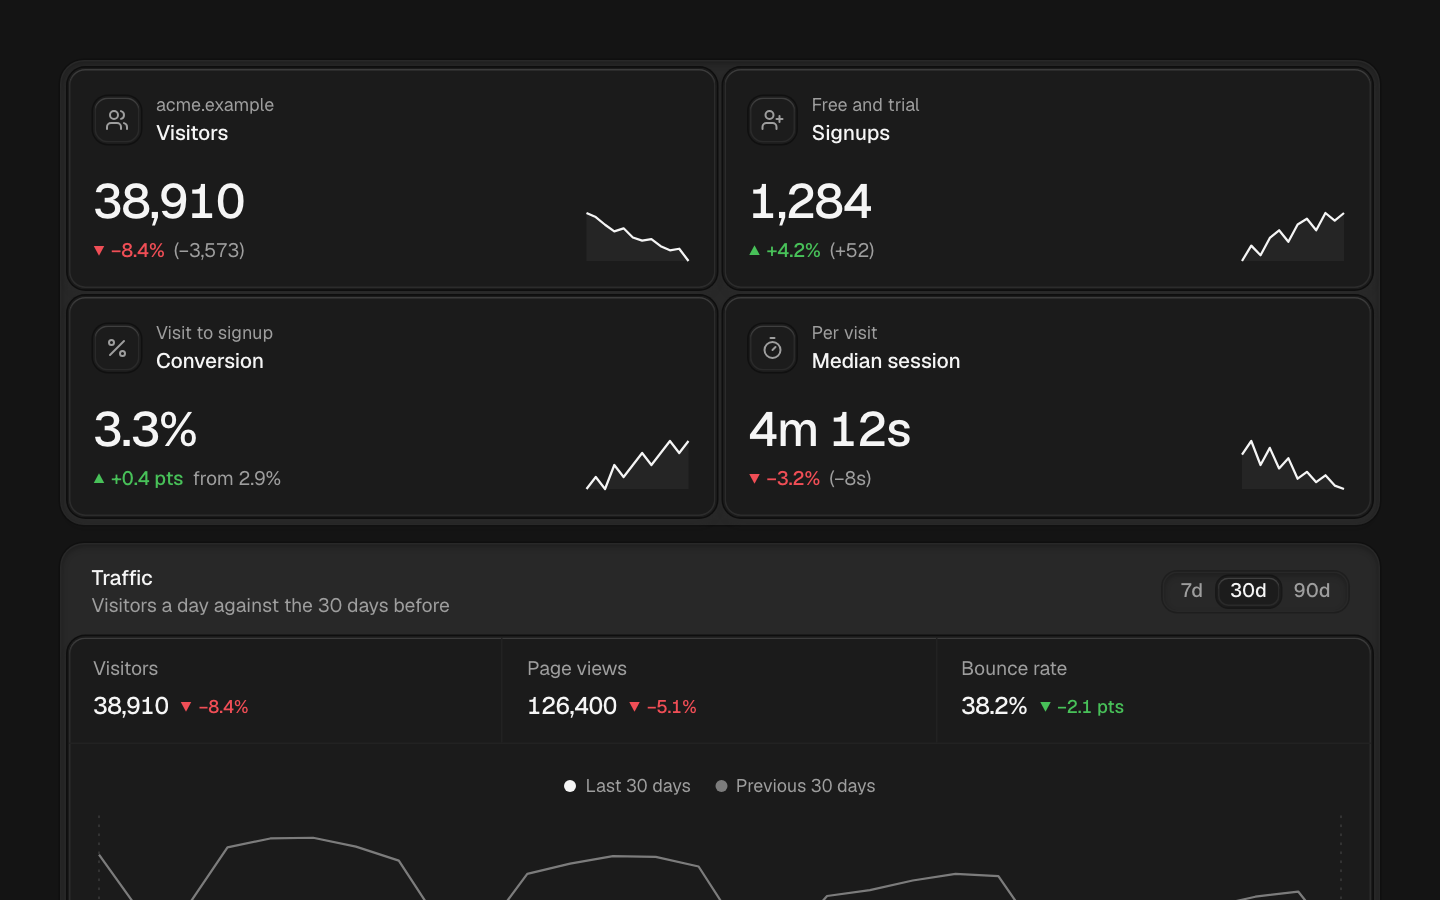
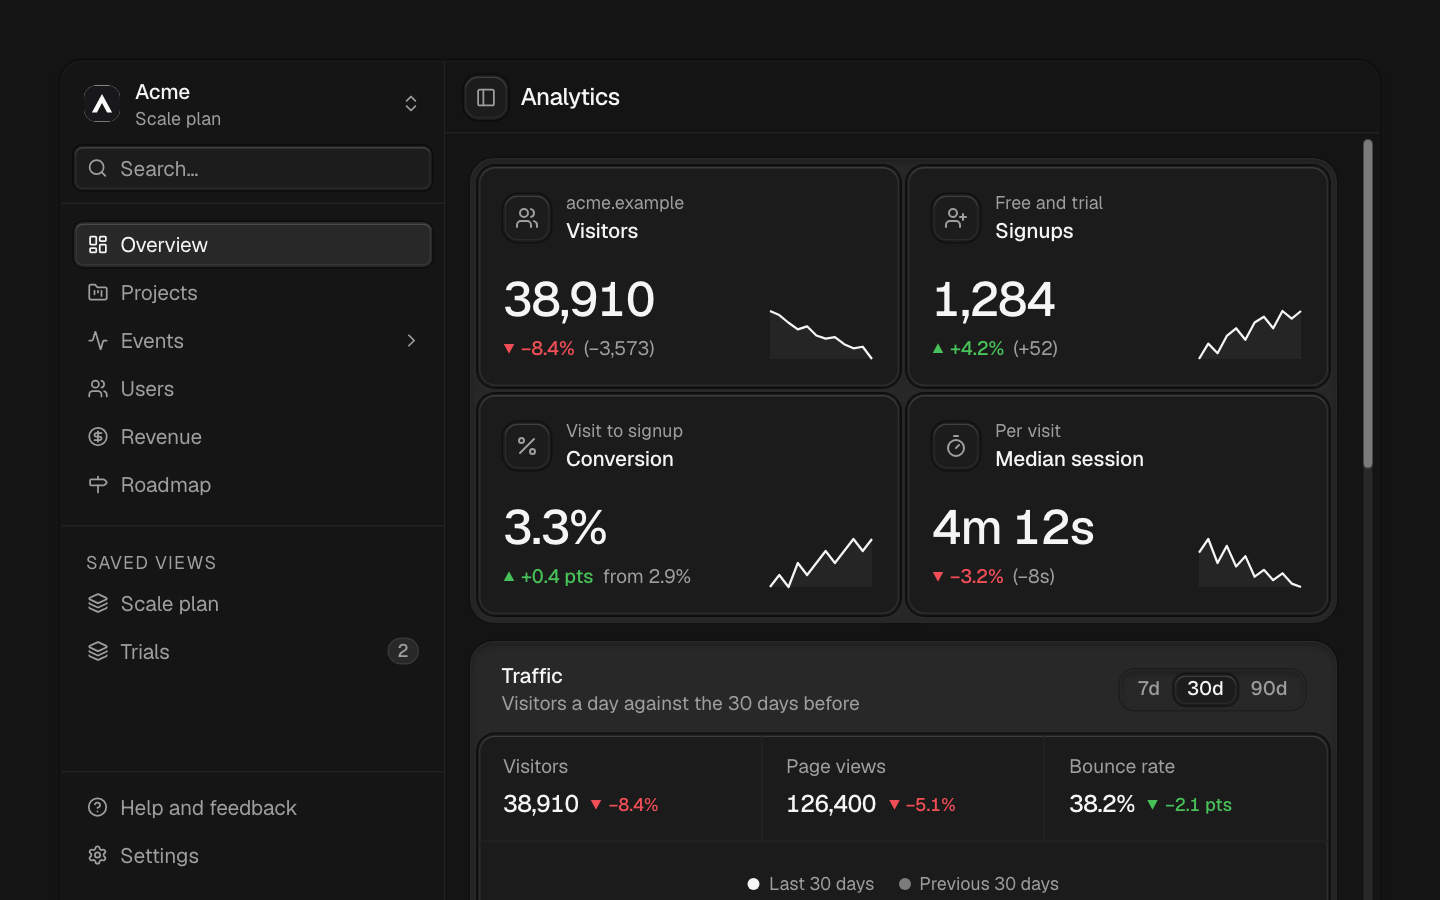
feat(dashboard): show both dashboards as a whole page beside the App sidebar

diff --git a/registry/kosmos/blocks/dashboard-analytics/dashboard-analytics.tsx b/registry/kosmos/blocks/dashboard-analytics/dashboard-analytics.tsx
@@ -2,6 +2,7 @@
 
 import { Ellipsis, ListFilter, Percent, Search, Timer, UserPlus, Users, type LucideIcon } from 'lucide-react';
 import * as React from 'react';
+import { AppSidebar, type AppSidebarProps } from '@/registry/kosmos/blocks/app-sidebar/app-sidebar';
 import { useControlled } from '@/registry/kosmos/hooks/use-controlled';
 import { cn } from '@/registry/kosmos/lib/cn';
 import { statDelta } from '@/registry/kosmos/lib/stat-delta';
@@ -43,6 +44,8 @@ import {
   StatCardSparkline,
   StatCardValue,
 } from '@/registry/kosmos/ui/stat-card';
+import { ScrollArea } from '@/registry/kosmos/ui/scroll-area';
+import { SidebarInset, SidebarProvider, SidebarResizeHandle, SidebarTrigger } from '@/registry/kosmos/ui/sidebar';
 import { Table, TableBody, TableCell, TableHead, TableHeader, TableRow } from '@/registry/kosmos/ui/table';
 
 type Range = '7d' | '30d' | '90d';
@@ -736,8 +739,43 @@ function DashboardAnalytics({
   );
 }
 
+type DashboardAnalyticsPageProps = DashboardAnalyticsProps & {
+  /** The page title in the header. */
+  title?: string;
+  /** The App sidebar's props: your pages, the current one, the workspaces and the signed-in user. */
+  sidebar?: AppSidebarProps;
+  /** The page frame's props, a `SidebarProvider`. It fills the screen; give it a height to place the page in a smaller frame. */
+  frame?: Omit<React.ComponentProps<typeof SidebarProvider>, 'children'>;
+};
+
+/**
+ * The analytics dashboard as a whole page: the App sidebar beside a header with the title, and the dashboard under it,
+ * scrolling while the sidebar and header stay put. Use `DashboardAnalytics` alone inside an app frame you already have.
+ */
+function DashboardAnalyticsPage({ title = 'Analytics', sidebar, frame, ...props }: DashboardAnalyticsPageProps) {
+  return (
+    <SidebarProvider {...frame} className={cn('h-svh min-h-0', frame?.className)}>
+      <AppSidebar activeItem="overview" {...sidebar} />
+      <SidebarResizeHandle />
+      <SidebarInset className="min-h-0">
+        <header className="flex h-12 shrink-0 items-center gap-2 border-b border-border px-3">
+          <SidebarTrigger />
+          <h1 className="truncate text-title font-medium">{title}</h1>
+        </header>
+        <ScrollArea className="min-h-0 flex-1">
+          <div className="p-3 sm:p-4">
+            <DashboardAnalytics {...props} />
+          </div>
+        </ScrollArea>
+      </SidebarInset>
+    </SidebarProvider>
+  );
+}
+
 export {
   DashboardAnalytics,
+  DashboardAnalyticsPage,
+  type DashboardAnalyticsPageProps,
   type DashboardAnalyticsProps,
   type Kpi as AnalyticsKpi,
   type Traffic,

diff --git a/registry/kosmos/blocks/dashboard-crm/dashboard-crm.tsx b/registry/kosmos/blocks/dashboard-crm/dashboard-crm.tsx
@@ -18,6 +18,7 @@ import {
   type LucideIcon,
 } from 'lucide-react';
 import * as React from 'react';
+import { AppSidebar, type AppSidebarProps } from '@/registry/kosmos/blocks/app-sidebar/app-sidebar';
 import { cn } from '@/registry/kosmos/lib/cn';
 import { statDelta } from '@/registry/kosmos/lib/stat-delta';
 import { Avatar, AvatarFallback, AvatarImage } from '@/registry/kosmos/ui/avatar';
@@ -48,6 +49,8 @@ import {
   StatCardSparkline,
   StatCardValue,
 } from '@/registry/kosmos/ui/stat-card';
+import { ScrollArea } from '@/registry/kosmos/ui/scroll-area';
+import { SidebarInset, SidebarProvider, SidebarResizeHandle, SidebarTrigger } from '@/registry/kosmos/ui/sidebar';
 import { Table, TableBody, TableCell, TableHead, TableHeader, TableRow } from '@/registry/kosmos/ui/table';
 
 type Stage = 'lead' | 'qualified' | 'proposal' | 'negotiation' | 'won';
@@ -681,8 +684,43 @@ function DashboardCrm({
   );
 }
 
+type DashboardCrmPageProps = DashboardCrmProps & {
+  /** The page title in the header. */
+  title?: string;
+  /** The App sidebar's props: your pages, the current one, the workspaces and the signed-in user. */
+  sidebar?: AppSidebarProps;
+  /** The page frame's props, a `SidebarProvider`. It fills the screen; give it a height to place the page in a smaller frame. */
+  frame?: Omit<React.ComponentProps<typeof SidebarProvider>, 'children'>;
+};
+
+/**
+ * The sales dashboard as a whole page: the App sidebar beside a header with the title, and the dashboard under it,
+ * scrolling while the sidebar and header stay put. Use `DashboardCrm` alone inside an app frame you already have.
+ */
+function DashboardCrmPage({ title = 'Sales', sidebar, frame, ...props }: DashboardCrmPageProps) {
+  return (
+    <SidebarProvider {...frame} className={cn('h-svh min-h-0', frame?.className)}>
+      <AppSidebar activeItem="overview" {...sidebar} />
+      <SidebarResizeHandle />
+      <SidebarInset className="min-h-0">
+        <header className="flex h-12 shrink-0 items-center gap-2 border-b border-border px-3">
+          <SidebarTrigger />
+          <h1 className="truncate text-title font-medium">{title}</h1>
+        </header>
+        <ScrollArea className="min-h-0 flex-1">
+          <div className="p-3 sm:p-4">
+            <DashboardCrm {...props} />
+          </div>
+        </ScrollArea>
+      </SidebarInset>
+    </SidebarProvider>
+  );
+}
+
 export {
   DashboardCrm,
+  DashboardCrmPage,
+  type DashboardCrmPageProps,
   type DashboardCrmProps,
   type Kpi as CrmKpi,
   type Deal,

diff --git a/registry/kosmos/examples/dashboard-crm.tsx b/registry/kosmos/examples/dashboard-crm.tsx
@@ -2,7 +2,7 @@
 
 import { ExternalLink, Trophy } from 'lucide-react';
 import { PreviewSection, PreviewStack } from '@/components/preview/preview-section';
-import { DashboardCrm, type Deal } from '@/registry/kosmos/blocks/dashboard-crm/dashboard-crm';
+import { DashboardCrm, DashboardCrmPage, type Deal } from '@/registry/kosmos/blocks/dashboard-crm/dashboard-crm';
 import { DropdownMenuItem } from '@/registry/kosmos/ui/dropdown-menu';
 
 const frame = 'w-full rounded-xl border border-transparent bg-background p-4 shadow-card';
@@ -43,6 +43,13 @@ function actions(deal: Deal) {
 export default function DashboardCrmPreview() {
   return (
     <PreviewStack>
+      <PreviewSection title="As a page, beside the App sidebar">
+        <DashboardCrmPage
+          frame={{ storageKey: false, className: 'h-[48rem] w-full overflow-hidden rounded-xl border border-transparent shadow-card' }}
+          sidebar={{ onNavigate: (_id, event) => event.preventDefault() }}
+          onNewDeal={() => {}} dealActions={actions} tasksHref="#"
+        />
+      </PreviewSection>
       <PreviewSection title="Full, with a Deal button, row actions and View all tasks">
         <div className={frame}>
           <DashboardCrm onNewDeal={() => {}} dealActions={actions} tasksHref="#" />

diff --git a/registry/kosmos/examples/dashboard-analytics.tsx b/registry/kosmos/examples/dashboard-analytics.tsx
@@ -4,6 +4,7 @@ import { Copy, UserRound } from 'lucide-react';
 import { PreviewSection, PreviewStack } from '@/components/preview/preview-section';
 import {
   DashboardAnalytics,
+  DashboardAnalyticsPage,
   type AnalyticsRange,
   type Signup,
   type Traffic,
@@ -57,6 +58,13 @@ function actions(signup: Signup) {
 export default function DashboardAnalyticsPreview() {
   return (
     <PreviewStack>
+      <PreviewSection title="As a page, beside the App sidebar">
+        <DashboardAnalyticsPage
+          frame={{ storageKey: false, className: 'h-[48rem] w-full overflow-hidden rounded-xl border border-transparent shadow-card' }}
+          sidebar={{ onNavigate: (_id, event) => event.preventDefault() }}
+          signupActions={actions}
+        />
+      </PreviewSection>
       <PreviewSection title="Full, 30 days">
         <div className={frame}>
           <DashboardAnalytics signupActions={actions} />

diff --git a/registry/kosmos/examples/dashboard-analytics-demo.tsx b/registry/kosmos/examples/dashboard-analytics-demo.tsx
@@ -1,13 +1,18 @@
 'use client';
 
 import { Copy, UserRound } from 'lucide-react';
-import { DashboardAnalytics } from '@/registry/kosmos/blocks/dashboard-analytics/dashboard-analytics';
+import { DashboardAnalyticsPage } from '@/registry/kosmos/blocks/dashboard-analytics/dashboard-analytics';
 import { DropdownMenuItem } from '@/registry/kosmos/ui/dropdown-menu';
 
 export default function DashboardAnalyticsDemo() {
   return (
-    <DashboardAnalytics
-      className="w-full"
+    <DashboardAnalyticsPage
+      frame={{
+        // In an app, leave the frame out: the page fills the screen.
+        storageKey: false,
+        className: 'h-[48rem] w-full overflow-hidden rounded-xl border border-transparent shadow-card',
+      }}
+      sidebar={{ onNavigate: (_id, event) => event.preventDefault() }}
       signupActions={(signup) => (
         <>
           <DropdownMenuItem>

diff --git a/registry/kosmos/examples/dashboard-crm-demo.tsx b/registry/kosmos/examples/dashboard-crm-demo.tsx
@@ -1,13 +1,18 @@
 'use client';
 
 import { ExternalLink, Trophy } from 'lucide-react';
-import { DashboardCrm } from '@/registry/kosmos/blocks/dashboard-crm/dashboard-crm';
+import { DashboardCrmPage } from '@/registry/kosmos/blocks/dashboard-crm/dashboard-crm';
 import { DropdownMenuItem } from '@/registry/kosmos/ui/dropdown-menu';
 
 export default function DashboardCrmDemo() {
   return (
-    <DashboardCrm
-      className="w-full"
+    <DashboardCrmPage
+      frame={{
+        // In an app, leave the frame out: the page fills the screen.
+        storageKey: false,
+        className: 'h-[48rem] w-full overflow-hidden rounded-xl border border-transparent shadow-card',
+      }}
+      sidebar={{ onNavigate: (_id, event) => event.preventDefault() }}
       onNewDeal={() => {}}
       tasksHref="#"
       dealActions={(deal) => (
